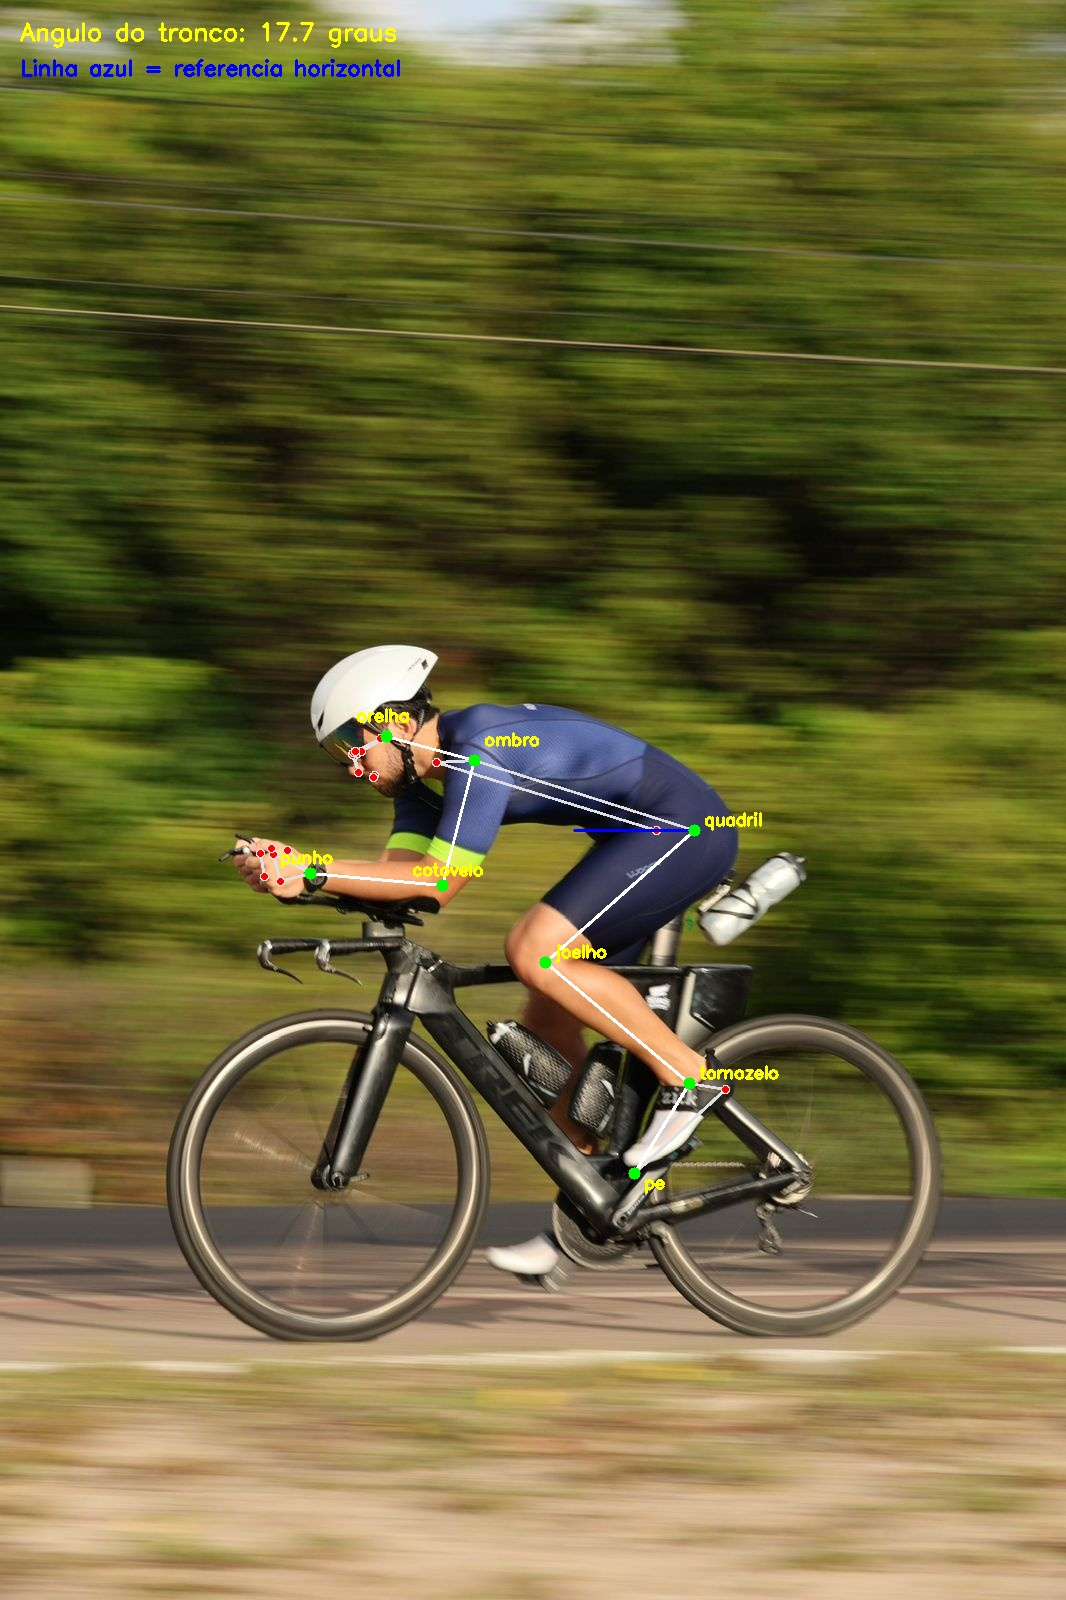
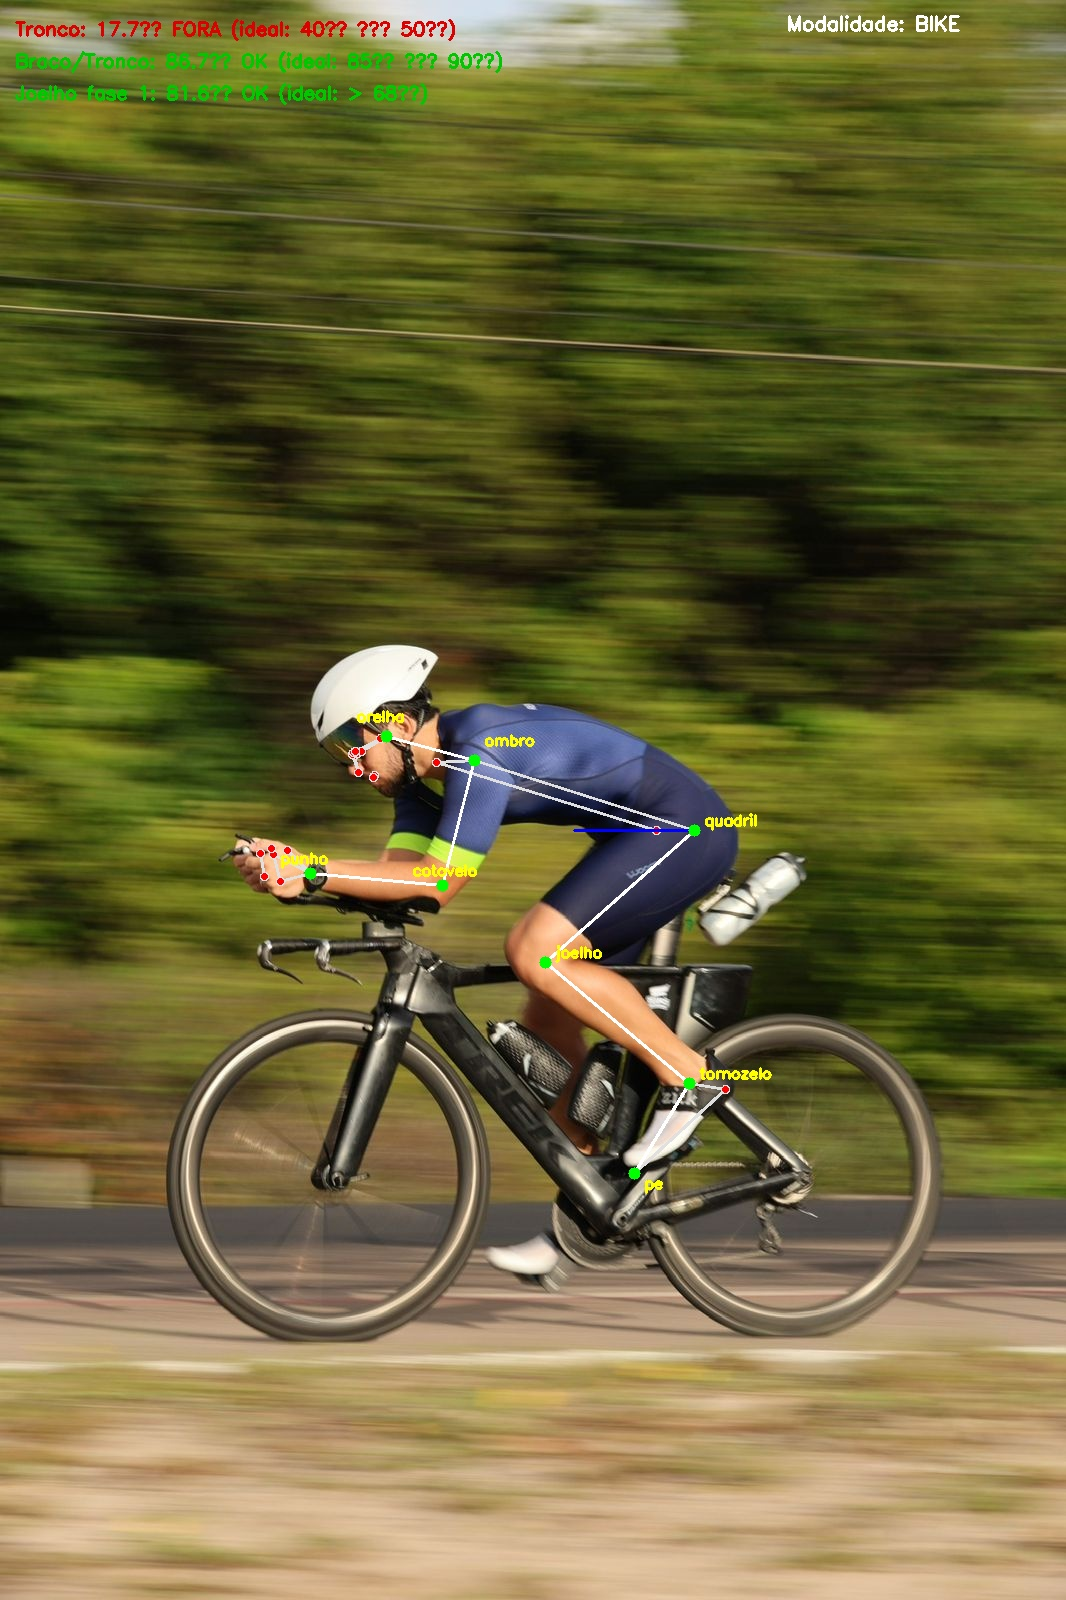
Add corrida, fluxo de perguntas e resposta com base em angulos

diff --git a/src/analyzers/poseAnalyzer.py b/src/analyzers/poseAnalyzer.py
@@ -6,11 +6,11 @@ import math
 import cv2
 import mediapipe as mp
 
-from src.domain.models import SnapshotPostural
+from src.domain.models import ResultadoAngulo, SnapshotPostural
 
 
 class AnalisadorDePose:
-    """Detecta pontos corporais e calcula o ângulo do tronco."""
+    """Detecta pontos corporais e calcula ângulos biomecânicos."""
 
     def __init__(self):
         modulo = mp.solutions.pose
@@ -19,13 +19,10 @@ class AnalisadorDePose:
             model_complexity=2,
             min_detection_confidence=0.5,
         )
-        self._conexoes = modulo.POSE_CONNECTIONS
         self._enum = modulo.PoseLandmark
 
-    def processar(self, imagem_bgr, caminho) -> tuple[SnapshotPostural, object]:
-        """Retorna (snapshot, landmarks_mediapipe). landmarks é None se não detectar pose."""
-        snapshot = SnapshotPostural(caminho_imagem=caminho)
-
+    def processar(self, imagem_bgr, snapshot: SnapshotPostural) -> tuple[SnapshotPostural, object]:
+        """Processa a imagem e preenche o snapshot com pontos e ângulos."""
         imagem_rgb = cv2.cvtColor(imagem_bgr, cv2.COLOR_BGR2RGB)
         resultado = self._pose.process(imagem_rgb)
 
@@ -36,10 +33,7 @@ class AnalisadorDePose:
         landmarks = resultado.pose_landmarks.landmark
 
         snapshot.pontos = self._extrair_pontos(landmarks, largura, altura)
-        snapshot.angulo_tronco = self._angulo_com_horizontal(
-            snapshot.pontos["quadril"],
-            snapshot.pontos["ombro"],
-        )
+        snapshot.angulos = self._calcular_angulos(snapshot)
         snapshot.pose_detectada = True
 
         return snapshot, resultado.pose_landmarks
@@ -61,15 +55,114 @@ class AnalisadorDePose:
             for nome, idx in mapeamento.items()
         }
 
+    def _calcular_angulos(self, snapshot: SnapshotPostural) -> list[ResultadoAngulo]:
+        """Calcula e avalia todos os ângulos conforme modalidade e fase."""
+        pontos = snapshot.pontos
+        angulos = []
+
+        if snapshot.modalidade == "bike":
+            angulos.append(self._avaliar_tronco(pontos))
+            angulos.append(self._avaliar_braco_tronco(pontos))
+            angulos.append(self._avaliar_joelho_bike(pontos, snapshot.fase_joelho))
+
+        elif snapshot.modalidade == "corrida":
+            angulos.append(self._avaliar_joelho_corrida(pontos, snapshot.fase_joelho))
+
+        return angulos
+
+    # ── Bike ────────────────────────────────────────────────────────────────
+
+    def _avaliar_tronco(self, pontos: dict) -> ResultadoAngulo:
+        valor = self._angulo_com_horizontal(pontos["quadril"], pontos["ombro"])
+        dentro = 40.0 <= valor <= 50.0
+        return ResultadoAngulo(
+            nome="Tronco",
+            valor=valor,
+            ideal="40° – 50°",
+            dentro_do_padrao=dentro,
+            mensagem=self._formatar_mensagem("Tronco", valor, "40° – 50°", dentro),
+        )
+
+    def _avaliar_braco_tronco(self, pontos: dict) -> ResultadoAngulo:
+        valor = self._angulo_entre_tres_pontos(
+            pontos["cotovelo"], pontos["ombro"], pontos["quadril"]
+        )
+        dentro = 85.0 <= valor <= 90.0
+        return ResultadoAngulo(
+            nome="Braco/Tronco",
+            valor=valor,
+            ideal="85° – 90°",
+            dentro_do_padrao=dentro,
+            mensagem=self._formatar_mensagem("Braco/Tronco", valor, "85° – 90°", dentro),
+        )
+
+    def _avaliar_joelho_bike(self, pontos: dict, fase: int) -> ResultadoAngulo:
+        valor = self._angulo_entre_tres_pontos(
+            pontos["quadril"], pontos["joelho"], pontos["tornozelo"]
+        )
+        if fase == 1:
+            dentro = valor > 68.0
+            ideal = "> 68°"
+        else:
+            dentro = 140.0 <= valor <= 145.0
+            ideal = "140° – 145°"
+        return ResultadoAngulo(
+            nome=f"Joelho (fase {fase})",
+            valor=valor,
+            ideal=ideal,
+            dentro_do_padrao=dentro,
+            mensagem=self._formatar_mensagem(f"Joelho fase {fase}", valor, ideal, dentro),
+        )
+
+    # ── Corrida ─────────────────────────────────────────────────────────────
+
+    def _avaliar_joelho_corrida(self, pontos: dict, fase: int) -> ResultadoAngulo:
+        valor = self._angulo_entre_tres_pontos(
+            pontos["quadril"], pontos["joelho"], pontos["tornozelo"]
+        )
+        if fase == 1:
+            dentro = valor < 160.0
+            ideal = "< 160°"
+        else:
+            dentro = valor < 140.0
+            ideal = "< 140°"
+        return ResultadoAngulo(
+            nome=f"Joelho corrida (fase {fase})",
+            valor=valor,
+            ideal=ideal,
+            dentro_do_padrao=dentro,
+            mensagem=self._formatar_mensagem(f"Joelho fase {fase}", valor, ideal, dentro),
+        )
+
+    # ── Geometria ───────────────────────────────────────────────────────────
+
     @staticmethod
     def _angulo_com_horizontal(ponto_inicial: tuple, ponto_final: tuple) -> float:
-        """Calcula o menor ângulo entre um segmento e a horizontal."""
+        """Ângulo entre um segmento e a horizontal."""
         dx = ponto_final[0] - ponto_inicial[0]
         dy = ponto_final[1] - ponto_inicial[1]
         if dx == 0:
             return 90.0
         angulo = abs(math.degrees(math.atan2(dy, dx)))
         return 180 - angulo if angulo > 90 else angulo
+
+    @staticmethod
+    def _angulo_entre_tres_pontos(a: tuple, b: tuple, c: tuple) -> float:
+        """Ângulo em B formado pelos segmentos BA e BC."""
+        ba = (a[0] - b[0], a[1] - b[1])
+        bc = (c[0] - b[0], c[1] - b[1])
+        produto_escalar = ba[0] * bc[0] + ba[1] * bc[1]
+        norma_ba = math.hypot(*ba)
+        norma_bc = math.hypot(*bc)
+        if norma_ba == 0 or norma_bc == 0:
+            return 0.0
+        cos_angulo = max(-1.0, min(1.0, produto_escalar / (norma_ba * norma_bc)))
+        return math.degrees(math.acos(cos_angulo))
+
+    @staticmethod
+    def _formatar_mensagem(nome: str, valor: float, ideal: str, dentro: bool) -> str:
+        simbolo = "OK" if dentro else "FORA"
+        return f"{nome}: {valor:.1f}° {simbolo} (ideal: {ideal})"
 
     def fechar(self):
         self._pose.close()

diff --git a/src/services/analiseService.py b/src/services/analiseService.py
@@ -3,7 +3,33 @@
 from pathlib import Path
 
 from src.analyzers.poseAnalyzer import AnalisadorDePose
+from src.domain.models import SnapshotPostural
 from src.io.imagemBike import carregar_imagem, listar_imagens, salvar_imagem_anotada
+
+
+def _perguntar_modalidade(nome_arquivo: str) -> str:
+    """Pergunta ao usuário se a foto é de bike ou corrida."""
+    while True:
+        resposta = input(f"\n[{nome_arquivo}] Modalidade — bike (b) ou corrida (c)? ").strip().lower()
+        if resposta in ("b", "bike"):
+            return "bike"
+        if resposta in ("c", "corrida"):
+            return "corrida"
+        print("  Digite 'b' para bike ou 'c' para corrida.")
+
+
+def _perguntar_fase_joelho(nome_arquivo: str, modalidade: str) -> int:
+    """Pergunta ao usuário a fase do joelho conforme a modalidade."""
+    if modalidade == "bike":
+        descricao = "1 - fase superior  |  2 - extensão máxima"
+    else:
+        descricao = "1 - contato inicial  |  2 - apoio médio"
+
+    while True:
+        resposta = input(f"[{nome_arquivo}] Fase do joelho ({descricao}): ").strip()
+        if resposta in ("1", "2"):
+            return int(resposta)
+        print("  Digite 1 ou 2.")
 
 
 def processar_pasta(pasta_entrada: Path, pasta_saida: Path):
@@ -18,14 +44,35 @@ def processar_pasta(pasta_entrada: Path, pasta_saida: Path):
     total = len(imagens)
     sucesso = 0
 
+    # Coleta todas as respostas antes de processar
+    print(f"\n{'='*50}")
+    print(f"  {total} imagem(ns) encontrada(s). Responda as perguntas:")
+    print(f"{'='*50}")
+
+    snapshots_configurados = []
+    for caminho in imagens:
+        modalidade = _perguntar_modalidade(caminho.name)
+        fase = _perguntar_fase_joelho(caminho.name, modalidade)
+        snapshot = SnapshotPostural(
+            caminho_imagem=caminho,
+            modalidade=modalidade,
+            fase_joelho=fase,
+        )
+        snapshots_configurados.append((caminho, snapshot))
+
+    # Processa todas as imagens
+    print(f"\n{'='*50}")
+    print("  Processando imagens...")
+    print(f"{'='*50}\n")
+
     with AnalisadorDePose() as analisador:
-        for caminho in imagens:
+        for caminho, snapshot in snapshots_configurados:
             imagem = carregar_imagem(caminho)
             if imagem is None:
                 print(f"[ERRO] Não foi possível abrir: {caminho.name}")
                 continue
 
-            snapshot, landmarks = analisador.processar(imagem, caminho)
+            snapshot, landmarks = analisador.processar(imagem, snapshot)
 
             if not snapshot.pose_detectada:
                 print(f"[SEM POSE] {caminho.name}")
@@ -36,6 +83,8 @@ def processar_pasta(pasta_entrada: Path, pasta_saida: Path):
 
             if salvou:
                 print(f"[OK] {caminho.name} -> {caminho_saida.name}")
+                for ang in snapshot.angulos:
+                    print(f"     {ang.mensagem}")
                 sucesso += 1
             else:
                 print(f"[ERRO] Não foi possível salvar: {caminho_saida.name}")

diff --git a/src/io/imagemBike.py b/src/io/imagemBike.py
@@ -23,7 +23,6 @@ DESLOCAMENTOS_ROTULOS = {
 
 
 def listar_imagens(pasta: Path) -> list[Path]:
-    """Retorna imagens válidas de uma pasta, ordenadas por nome."""
     return sorted(
         arq for arq in pasta.iterdir()
         if arq.is_file() and arq.suffix.lower() in EXTENSOES_VALIDAS
@@ -31,7 +30,6 @@ def listar_imagens(pasta: Path) -> list[Path]:
 
 
 def carregar_imagem(caminho: Path):
-    """Carrega imagem como array BGR. Retorna None se falhar."""
     return cv2.imread(str(caminho))
 
 
@@ -41,7 +39,6 @@ def salvar_imagem_anotada(
     landmarks_mediapipe,
     caminho_saida: Path,
 ) -> bool:
-    """Anota a imagem com pontos, segmentos e ângulo, e salva em disco."""
     imagem = imagem_original.copy()
     modulo_pose = mp.solutions.pose
     modulo_desenho = mp.solutions.drawing_utils
@@ -57,21 +54,30 @@ def salvar_imagem_anotada(
     for origem, destino in pares:
         cv2.line(imagem, snapshot.pontos[origem], snapshot.pontos[destino], (255, 255, 255), 2)
 
-    # Linha de referência horizontal a partir do quadril
-    quadril = snapshot.pontos["quadril"]
-    cv2.line(imagem, quadril, (quadril[0] - 120, quadril[1]), (255, 0, 0), 2)
+    # Linha de referência horizontal a partir do quadril (só bike)
+    if snapshot.modalidade == "bike":
+        quadril = snapshot.pontos["quadril"]
+        cv2.line(imagem, quadril, (quadril[0] - 120, quadril[1]), (255, 0, 0), 2)
 
     # Pontos e rótulos
     for nome, ponto in snapshot.pontos.items():
         dx, dy = DESLOCAMENTOS_ROTULOS.get(nome, (10, -10))
         cv2.circle(imagem, ponto, 6, (0, 255, 0), -1)
         cv2.putText(imagem, nome, (ponto[0] + dx, ponto[1] + dy),
-                    cv2.FONT_HERSHEY_SIMPLEX, 0.55, (0, 255, 255), 2)
+                    cv2.FONT_HERSHEY_SIMPLEX, 0.5, (0, 255, 255), 2)
 
-    # Informações de ângulo
-    cv2.putText(imagem, f"Angulo do tronco: {snapshot.angulo_tronco:.1f} graus",
-                (20, 40), cv2.FONT_HERSHEY_SIMPLEX, 0.8, (0, 255, 255), 2)
-    cv2.putText(imagem, "Linha azul = referencia horizontal",
-                (20, 75), cv2.FONT_HERSHEY_SIMPLEX, 0.7, (255, 0, 0), 2)
+    # Ângulos e avaliações — empilhados no canto superior esquerdo
+    y = 35
+    for resultado in snapshot.angulos:
+        cor = (0, 200, 0) if resultado.dentro_do_padrao else (0, 0, 220)
+        cv2.putText(imagem, resultado.mensagem, (15, y),
+                    cv2.FONT_HERSHEY_SIMPLEX, 0.62, cor, 2)
+        y += 32
+
+    # Modalidade no canto superior direito
+    largura = imagem.shape[1]
+    label_modalidade = f"Modalidade: {snapshot.modalidade.upper()}"
+    cv2.putText(imagem, label_modalidade, (largura - 280, 30),
+                cv2.FONT_HERSHEY_SIMPLEX, 0.65, (255, 255, 255), 2)
 
     return cv2.imwrite(str(caminho_saida), imagem)

diff --git a/src/domain/models.py b/src/domain/models.py
@@ -5,9 +5,21 @@ from pathlib import Path
 
 
 @dataclass
+class ResultadoAngulo:
+    """Valor de um ângulo calculado e sua avaliação."""
+    nome: str
+    valor: float
+    ideal: str
+    dentro_do_padrao: bool
+    mensagem: str
+
+
+@dataclass
 class SnapshotPostural:
     """Resultado da detecção de pose em uma imagem."""
     caminho_imagem: Path
-    pontos: dict = field(default_factory=dict)        # nome -> (x, y)
-    angulo_tronco: float = 0.0
+    modalidade: str = ""          # "bike" ou "corrida"
+    fase_joelho: int = 0          # 1 ou 2
+    pontos: dict = field(default_factory=dict)
+    angulos: list = field(default_factory=list)
     pose_detectada: bool = False
